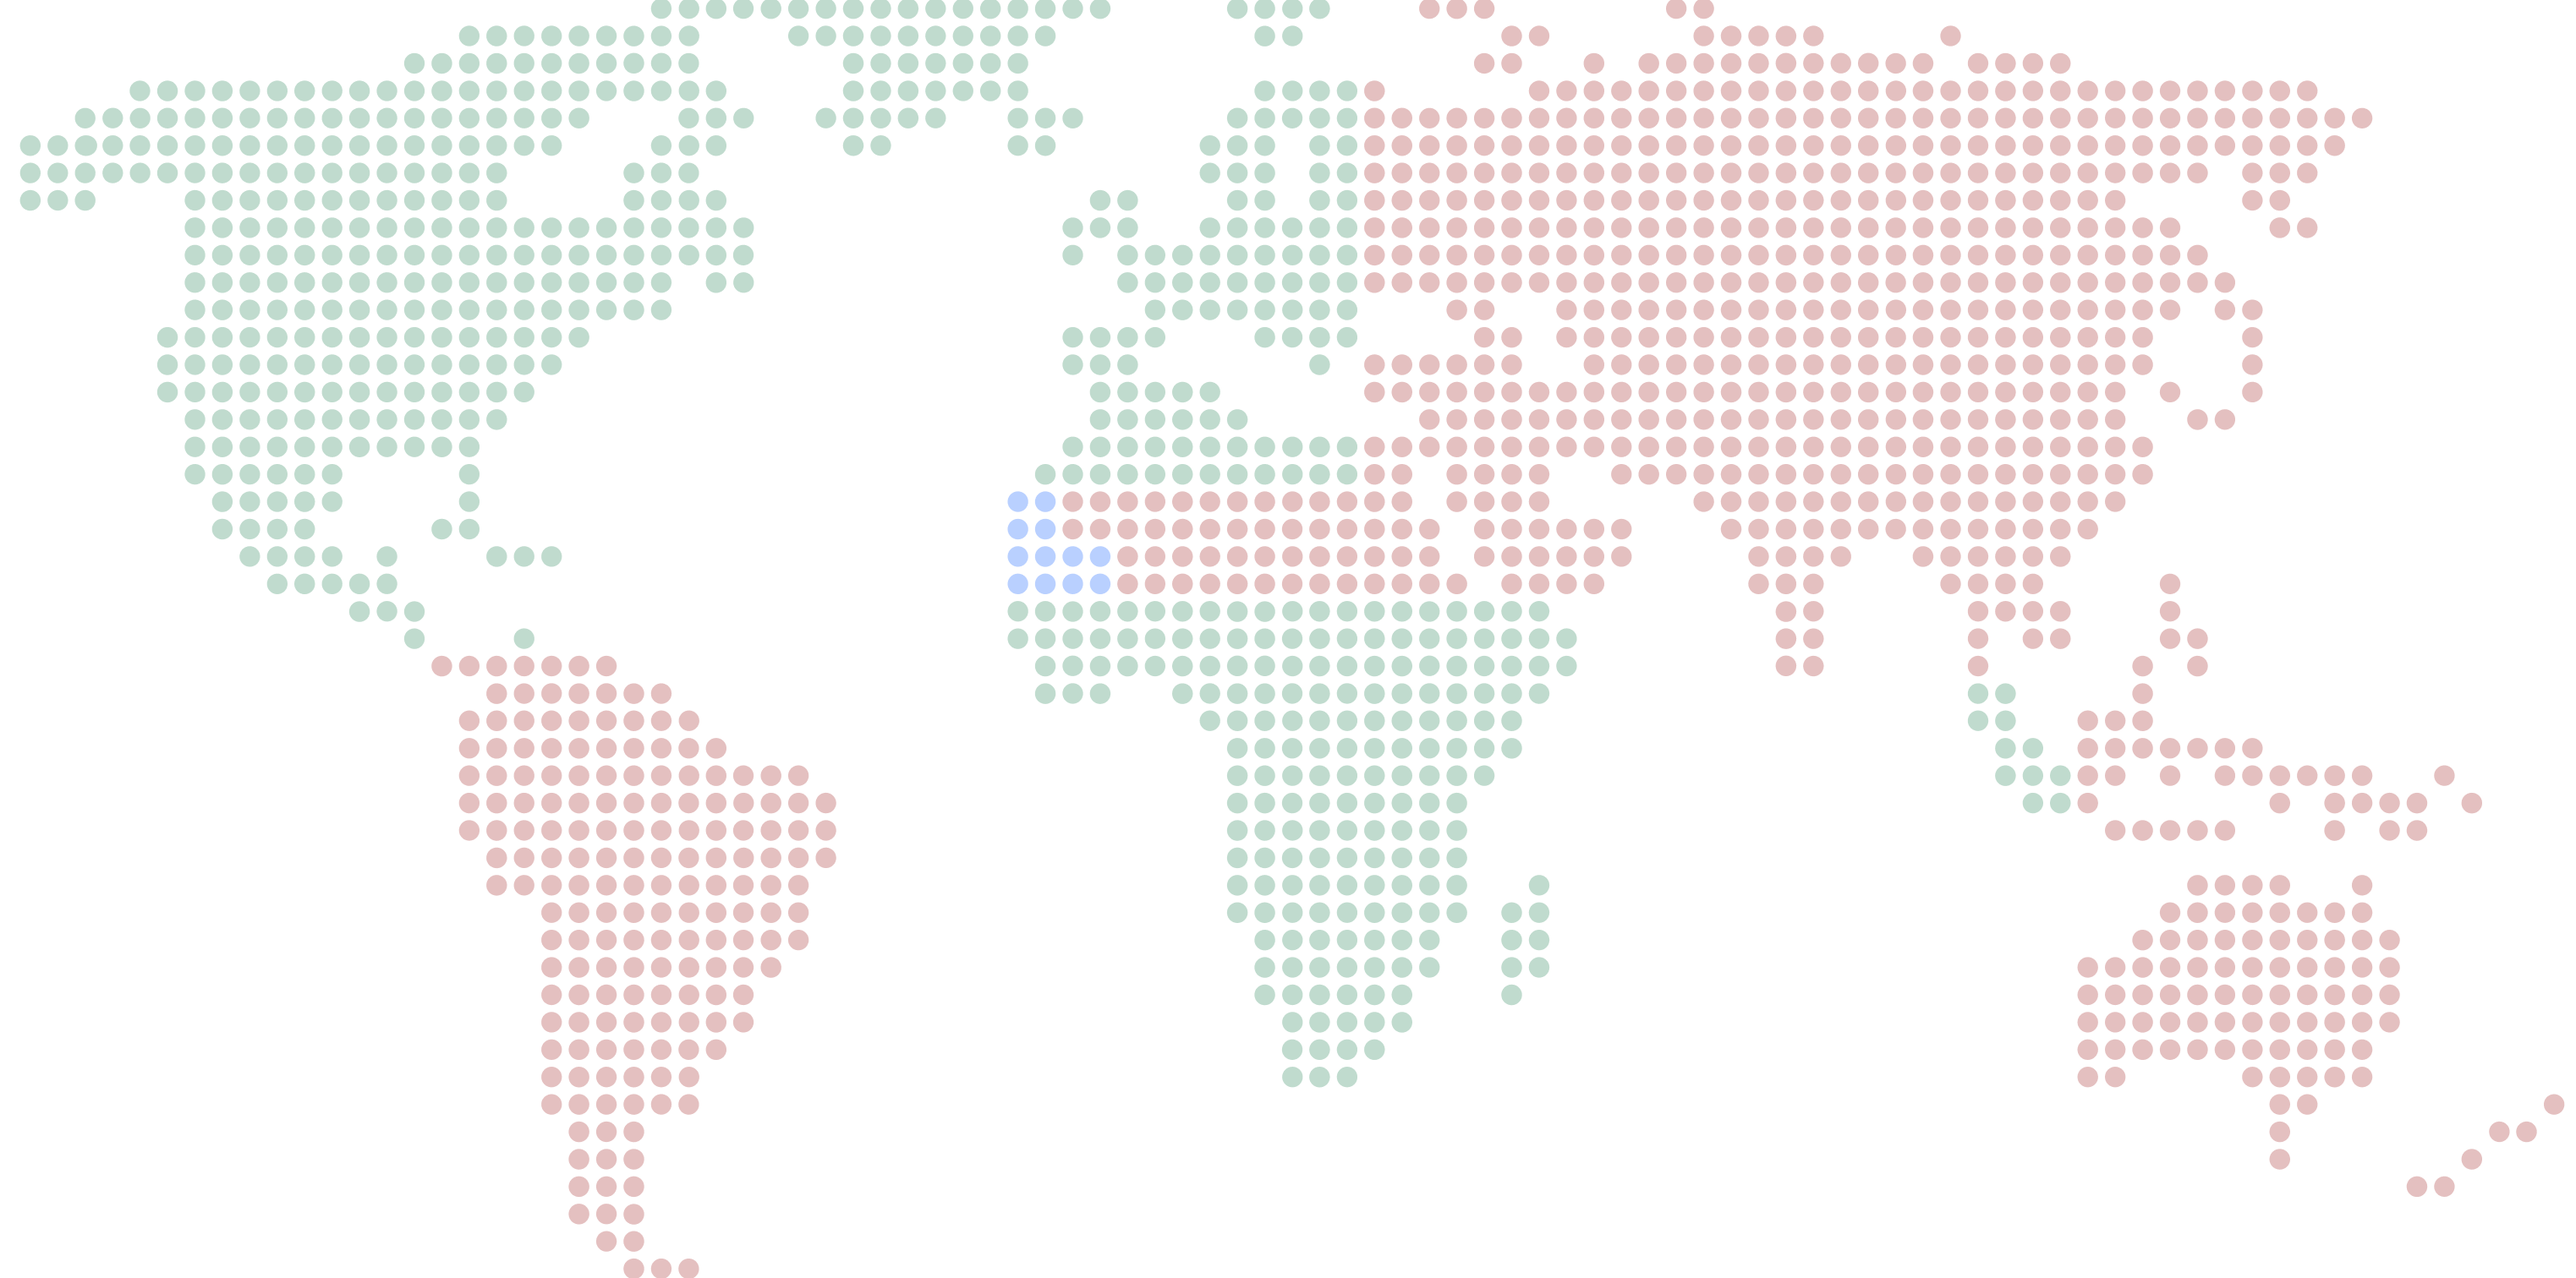
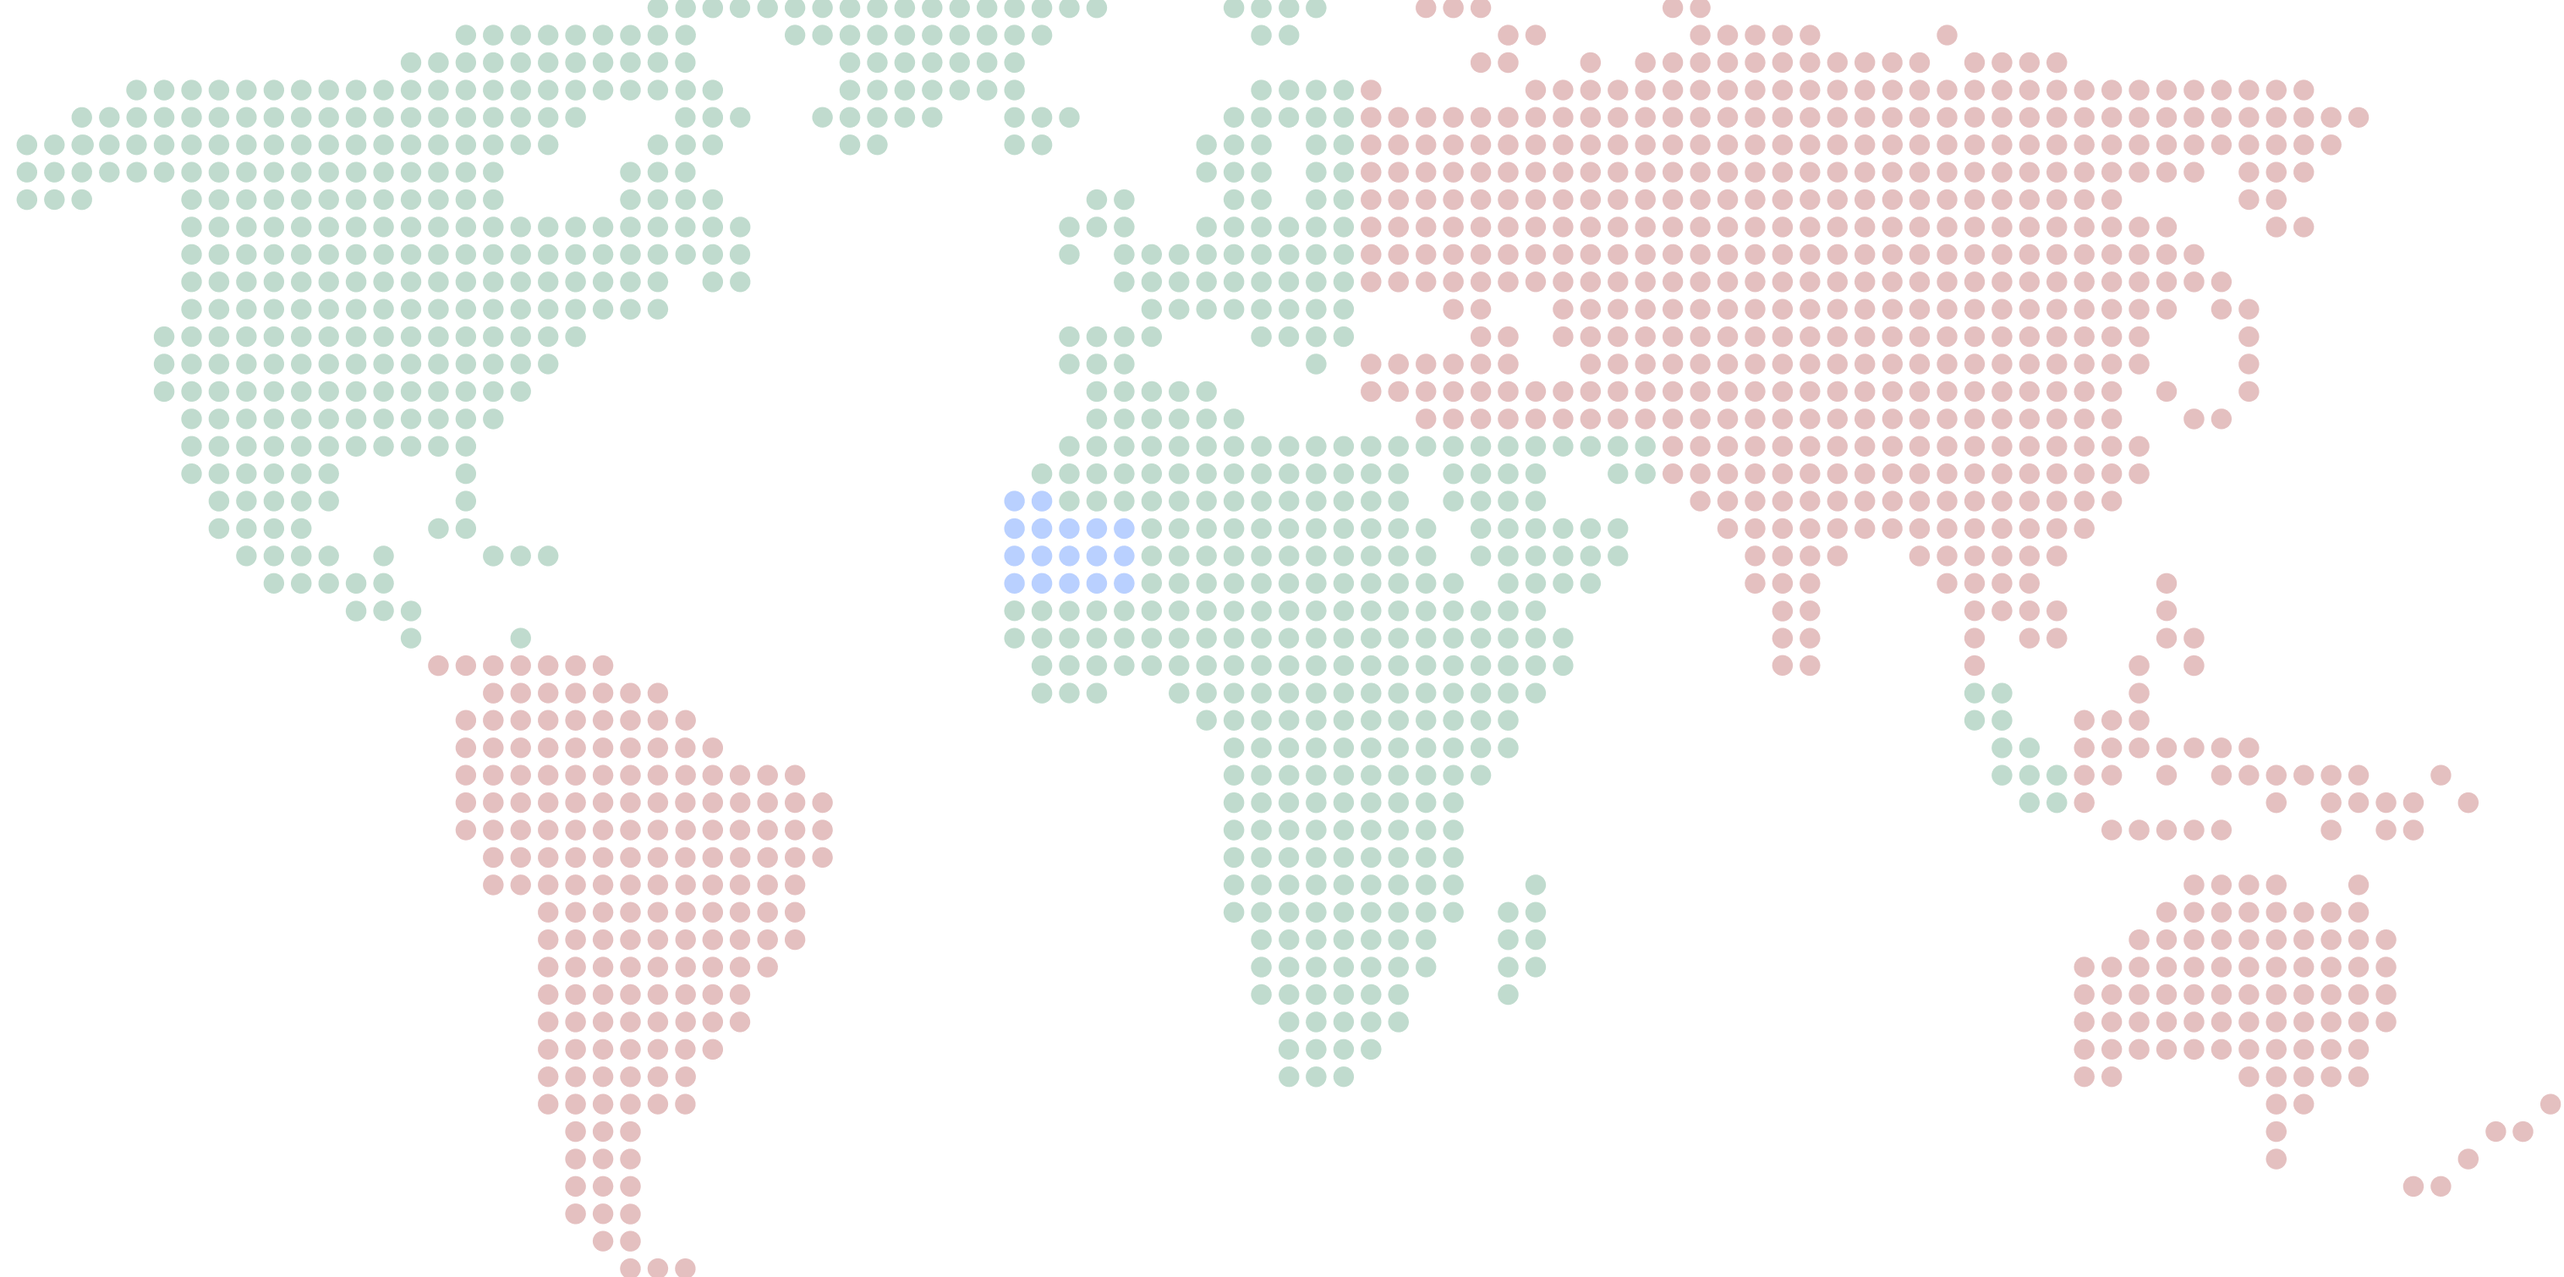
Update global reach section and map assets
- Updated world map image with improved quality
- Modified GlobalReachSection component for enhanced interactivity
- Updated Claude settings for development workflow
- Added Playwright MCP verification screenshots for tooltip testing

🤖 Generated with [Claude Code](https://claude.com/claude-code)

diff --git a/src/components/sections/Homepage/GlobalReachSection.tsx b/src/components/sections/Homepage/GlobalReachSection.tsx
@@ -11,7 +11,7 @@ const countries = [
     id: 'canada',
     name: 'Canada',
     flagCode: 'ca',
-    position: { top: '25%', left: '14%' }, // Northern North America
+    position: { top: '25%', left: '18%' }, // Northern North America (moved right)
     category: 'Senders & Receivers',
     continent: 'North America',
   },
@@ -19,7 +19,7 @@ const countries = [
     id: 'usa',
     name: 'United States',
     flagCode: 'us',
-    position: { top: '35%', left: '13%' }, // Central North America
+    position: { top: '35%', left: '17%' }, // Central North America (moved right)
     category: 'Senders & Receivers',
     continent: 'North America',
   },
@@ -153,7 +153,7 @@ const countries = [
     id: 'car',
     name: 'Central African Republic',
     flagCode: 'cf',
-    position: { top: '51%', left: '54.5%' }, // Central Africa
+    position: { top: '52.5%', left: '53%' }, // Central Africa, north of DRC
     category: 'Senders & Receivers',
     continent: 'Central Africa',
   },
@@ -161,7 +161,7 @@ const countries = [
     id: 'drc',
     name: 'DR Congo',
     flagCode: 'cd',
-    position: { top: '56%', left: '54%' }, // Central Africa, south of CAR
+    position: { top: '59%', left: '53.5%' }, // Central Africa, left of Tanzania at similar latitude
     category: 'Senders & Receivers',
     continent: 'Central Africa',
   },
